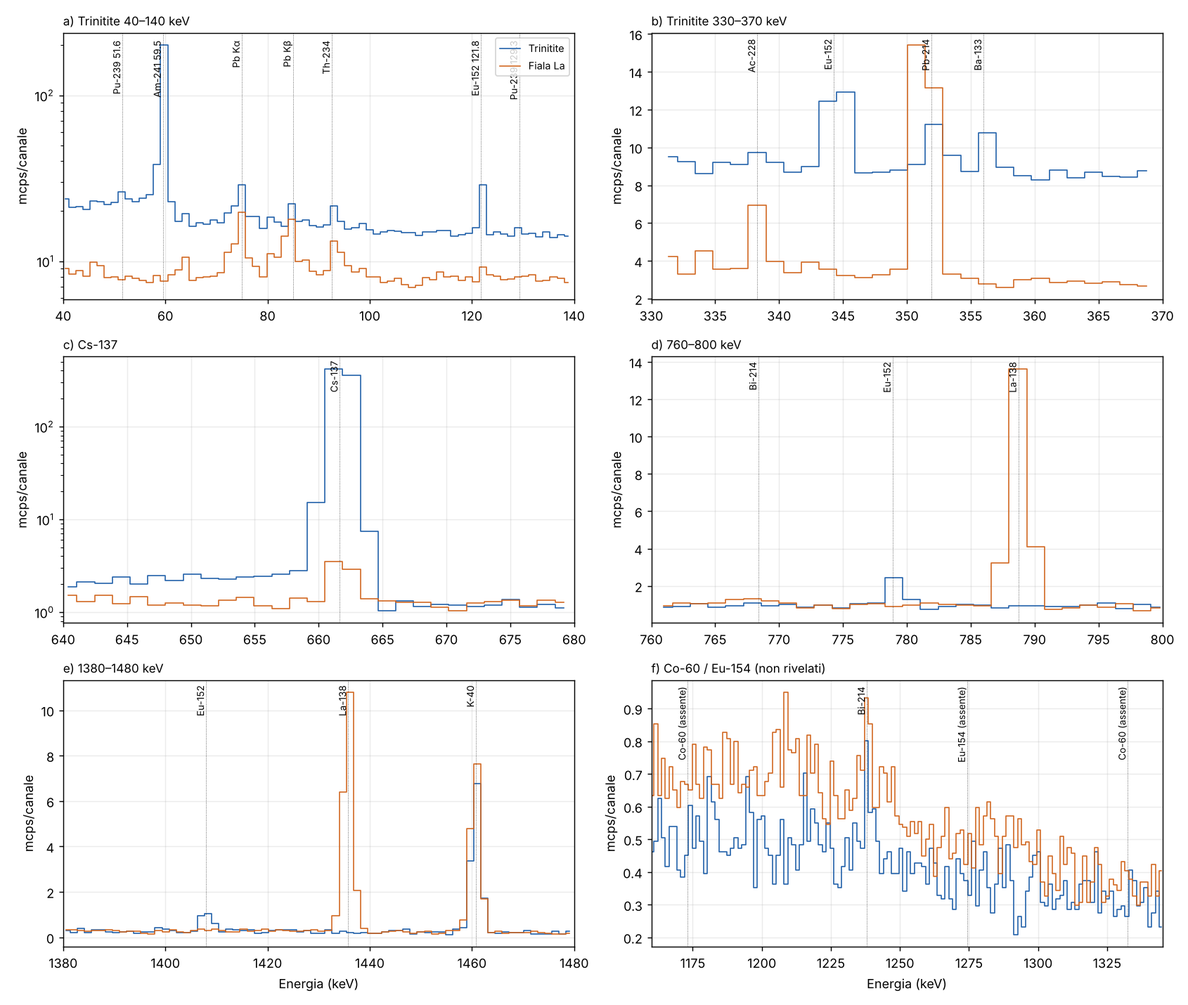
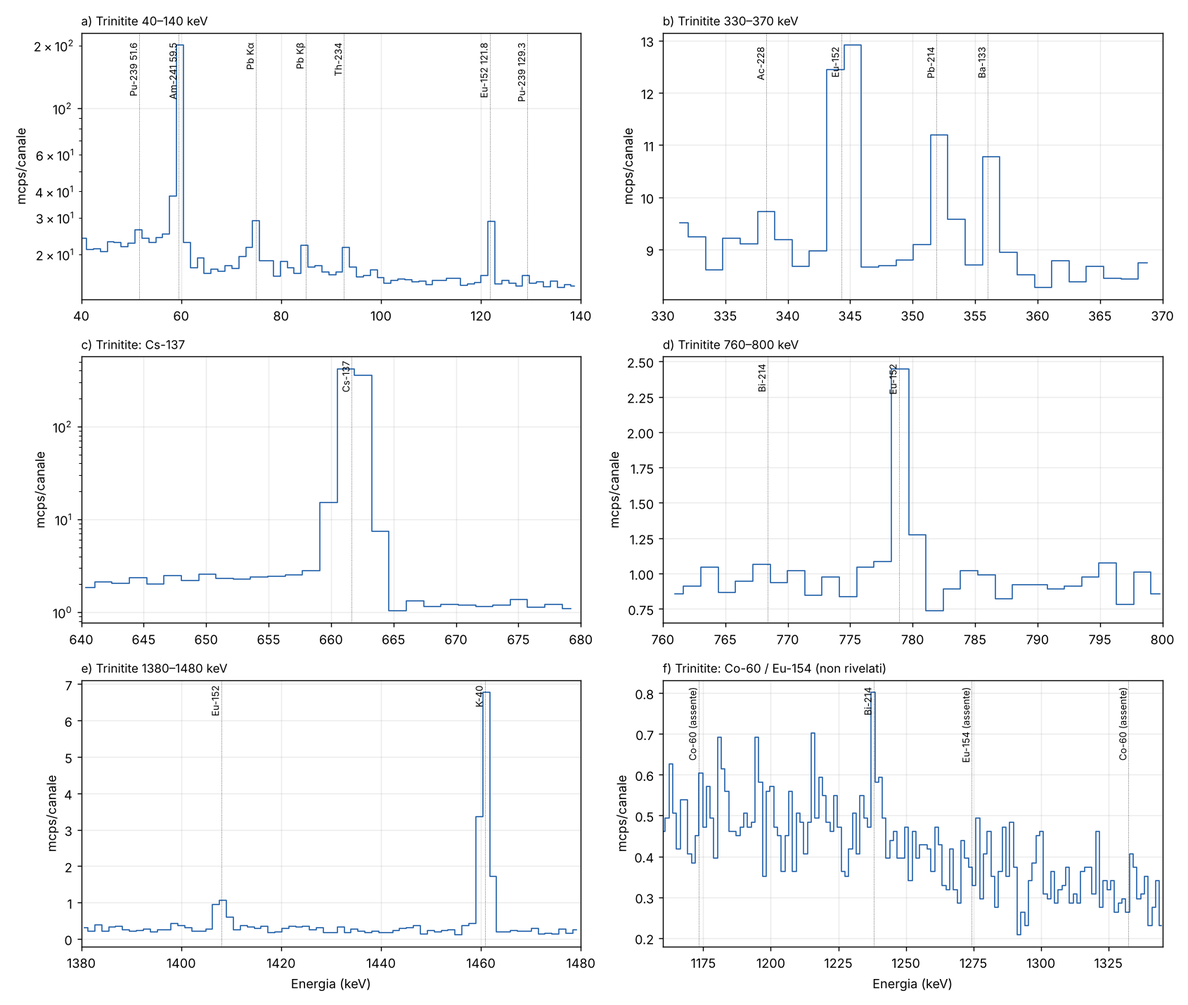
Analisi HPGe: trinitite e fiala di La trattate in modo indipendente
Rimossi confronti e sottrazioni incrociate fra i due spettri: correzione 228Ac
964.77 keV dalla linea 968.97 keV dello stesso spettro, nessuna sottrazione di
137Cs, figure separate per campione, relazione divisa in due parti.

Claude-Session: https://claude.ai/code/session_01UsiFx1uonXxZkccudTr8fm

diff --git a/analisi_HPGe/script/figs.py b/analisi_HPGe/script/figs.py
@@ -10,33 +10,31 @@ def ann(ax,items,c,ymax):
         ax.axvline(E,color=c,lw=.5,ls=':',alpha=.7)
         ax.text(E,ymax,t,rotation=90,va='top',ha='right',fontsize=7.5,color=c)
 # Fig1 overview
-fig,ax=plt.subplots(2,1,figsize=(13,8.5),sharex=True)
-for a,c,lt,col,name,items in [(ax[0],cT,lT,C1,'Trinitite (LT = %.0f s)'%lT,[(59.54,'Am-241'),(121.78,'Eu-152'),(344.28,'Eu-152'),(661.66,'Cs-137'),(778.9,'Eu-152'),(964.1,'Eu-152'),(1408.0,'Eu-152'),(1460.8,'K-40 (fondo)'),(2614.5,'Tl-208 (fondo)'),(1764.5,'Bi-214 (fondo)'),(511,'annich.')]),
-                              (ax[1],cL,lL,C2,'Fiala di La (LT = %.0f s)'%lL,[(235.96,'Th-227'),(269.5,'Ra-223/Rn-219'),(351.06,'Bi-211'),(401.8,'Rn-219'),(788.74,'La-138'),(831.96,'Pb-211'),(1435.8,'La-138'),(1460.8,'K-40 (fondo)'),(2614.5,'Tl-208 (fondo)'),(84,'raggi X'),(154.2,'Ra-223')])]:
+for a,c,lt,col,name,items in [(None,cT,lT,C1,'Trinitite (LT = %.0f s)'%lT,[(59.54,'Am-241'),(121.78,'Eu-152'),(344.28,'Eu-152'),(661.66,'Cs-137'),(778.9,'Eu-152'),(964.1,'Eu-152'),(1408.0,'Eu-152'),(1460.8,'K-40 (fondo)'),(2614.5,'Tl-208 (fondo)'),(1764.5,'Bi-214 (fondo)'),(511,'annich.')]),
+                              (None,cL,lL,C2,'Fiala di La (LT = %.0f s)'%lL,[(235.96,'Th-227'),(269.5,'Ra-223/Rn-219'),(351.06,'Bi-211'),(401.8,'Rn-219'),(788.74,'La-138'),(831.96,'Pb-211'),(1435.8,'La-138'),(1460.8,'K-40 (fondo)'),(2614.5,'Tl-208 (fondo)'),(84,'raggi X'),(154.2,'Ra-223')])]:
+    fig,a=plt.subplots(figsize=(13,4.6))
     a.step(e,c/lt,where='mid',color=col,lw=.7); a.set_yscale('log'); a.set_ylim(5e-6,1); a.set_title(name,loc='left'); a.set_ylabel('conteggi/s/canale'); a.grid(alpha=.25)
-    ann(a,items,'k',0.9)
-ax[1].set_xlabel('Energia (keV)'); ax[1].set_xlim(15,2800)
-plt.tight_layout(); plt.savefig(os.path.join(os.path.dirname(os.path.abspath(__file__)),'..','figure','fig1_spettri.png'),dpi=130); plt.close()
+    ann(a,items,'k',0.9); a.set_xlabel('Energia (keV)'); a.set_xlim(15,2800)
+    plt.tight_layout(); plt.savefig(os.path.join(os.path.dirname(os.path.abspath(__file__)),'..','figure','fig1_spettro_'+('trinitite' if c is cT else 'lantanio')+'.png'),dpi=130); plt.close()
 # zoom helper
-def zoom(ax,lo,hi,items,log=False,title=''):
+def zoom(ax,lo,hi,items,log=False,title='',sample='TR'):
     m=(e>=lo)&(e<=hi)
-    ax.step(e[m],cT[m]/lT*1e3,where='mid',color=C1,lw=.9,label='Trinitite')
-    ax.step(e[m],cL[m]/lL*1e3,where='mid',color=C2,lw=.9,label='Fiala La')
+    c_,l_,col=(cT,lT,C1) if sample=='TR' else (cL,lL,C2)
+    ax.step(e[m],c_[m]/l_*1e3,where='mid',color=col,lw=.9)
     if log: ax.set_yscale('log')
     ymax=ax.get_ylim()[1]; ann(ax,items,'k',ymax*0.98 if not log else ymax*0.9)
     ax.set_xlim(lo,hi); ax.set_title(title,loc='left',fontsize=9.5); ax.set_ylabel('mcps/canale'); ax.grid(alpha=.25)
 fig,ax=plt.subplots(3,2,figsize=(13,11))
 zoom(ax[0,0],40,140,[(51.62,'Pu-239 51.6'),(59.54,'Am-241 59.5'),(74.97,'Pb Kα'),(84.94,'Pb Kβ'),(92.6,'Th-234'),(121.78,'Eu-152 121.8'),(129.3,'Pu-239 129.3')],log=True,title='a) Trinitite 40–140 keV')
 zoom(ax[0,1],330,370,[(338.3,'Ac-228'),(344.28,'Eu-152'),(351.93,'Pb-214'),(356.01,'Ba-133')],title='b) Trinitite 330–370 keV')
-zoom(ax[1,0],640,680,[(661.66,'Cs-137')],log=True,title='c) Cs-137')
-zoom(ax[1,1],760,800,[(768.4,'Bi-214'),(778.9,'Eu-152'),(788.74,'La-138')],title='d) 760–800 keV')
-zoom(ax[2,0],1380,1480,[(1408.01,'Eu-152'),(1435.8,'La-138'),(1460.82,'K-40')],title='e) 1380–1480 keV')
-zoom(ax[2,1],1160,1345,[(1173.2,'Co-60 (assente)'),(1238.1,'Bi-214'),(1274.4,'Eu-154 (assente)'),(1332.5,'Co-60 (assente)')],title='f) Co-60 / Eu-154 (non rivelati)')
+zoom(ax[1,0],640,680,[(661.66,'Cs-137')],log=True,title='c) Trinitite: Cs-137')
+zoom(ax[1,1],760,800,[(768.4,'Bi-214'),(778.9,'Eu-152')],title='d) Trinitite 760–800 keV')
+zoom(ax[2,0],1380,1480,[(1408.01,'Eu-152'),(1460.82,'K-40')],title='e) Trinitite 1380–1480 keV')
+zoom(ax[2,1],1160,1345,[(1173.2,'Co-60 (assente)'),(1238.1,'Bi-214'),(1274.4,'Eu-154 (assente)'),(1332.5,'Co-60 (assente)')],title='f) Trinitite: Co-60 / Eu-154 (non rivelati)')
 for a in ax[2]: a.set_xlabel('Energia (keV)')
-ax[0,0].legend(loc='upper right',fontsize=8)
 plt.tight_layout(); plt.savefig(os.path.join(os.path.dirname(os.path.abspath(__file__)),'..','figure','fig2_zoom_trinitite.png'),dpi=130); plt.close()
 fig,ax=plt.subplots(2,1,figsize=(13,8))
-zoom(ax[0],140,460,[(144.2,'Ra-223'),(154.2,'Ra-223'),(185.7,'U-235/Ra-226'),(210.6,'Th-227'),(235.96,'Th-227'),(256.23,'Th-227'),(269.46,'Ra-223'),(271.23,'Rn-219'),(286.1,'Th-227'),(300,'Th-227'),(323.87,'Ra-223'),(329.85,'Th-227'),(338.28,'Ra-223'),(351.06,'Bi-211'),(401.81,'Rn-219'),(404.85,'Pb-211'),(427.09,'Pb-211'),(445.03,'Ra-223')],title='a) Fiala La 140–460 keV: catena del 227Ac')
-zoom(ax[1],760,860,[(768.4,'Bi-214'),(788.74,'La-138'),(831.96,'Pb-211')],title='b) Fiala La 760–860 keV')
-ax[1].set_xlabel('Energia (keV)'); ax[0].legend(fontsize=8,loc='center right')
+zoom(ax[0],140,460,[(144.2,'Ra-223'),(154.2,'Ra-223'),(185.7,'U-235/Ra-226'),(210.6,'Th-227'),(235.96,'Th-227'),(256.23,'Th-227'),(269.46,'Ra-223'),(271.23,'Rn-219'),(286.1,'Th-227'),(300,'Th-227'),(323.87,'Ra-223'),(329.85,'Th-227'),(338.28,'Ra-223'),(351.06,'Bi-211'),(401.81,'Rn-219'),(404.85,'Pb-211'),(427.09,'Pb-211'),(445.03,'Ra-223')],title='a) Fiala La 140–460 keV: catena del 227Ac',sample='La')
+zoom(ax[1],760,860,[(768.4,'Bi-214'),(788.74,'La-138'),(831.96,'Pb-211')],title='b) Fiala La 760–860 keV',sample='La')
+ax[1].set_xlabel('Energia (keV)')
 plt.tight_layout(); plt.savefig(os.path.join(os.path.dirname(os.path.abspath(__file__)),'..','figure','fig3_zoom_lantanio.png'),dpi=130); plt.close()

diff --git a/analisi_HPGe/script/quant.py b/analisi_HPGe/script/quant.py
@@ -16,7 +16,8 @@ eu=[(121.7817,28.53),(244.6974,7.55),(344.2785,26.59),(778.9045,12.93),(964.072,
 X=[];Y=[];DY=[]
 for e,I in eu:
     r,d=get('TR',e)
-    if abs(e-964.072)<0.1: r-=0.389; d=np.hypot(d,0.165)   # Ac-228 964.77 background (from La run)
+    if abs(e-964.072)<0.1:  # Ac-228 964.77 (unresolved) estimated from Ac-228 968.97 in the SAME spectrum: I(964.77)/I(968.97)=4.99/15.8
+        a,da=get('TR',968.971); r-=a*4.99/15.8; d=np.hypot(d,da*4.99/15.8)
     X.append(np.log(e));Y.append(np.log(r/I));DY.append(d/r)
     print(f"  {e:8.2f}  r={r:6.3f}±{d:5.3f} mcps  r/I={r/I:.4f}")
 X,Y,DY=map(np.array,(X,Y,DY))
@@ -28,7 +29,7 @@ for e,I in eu: print(f"   resid {e:7.1f}: {np.exp(np.log(get('TR',e)[0]/I)-np.lo
 # activity relative to Eu-152 (A_x/A_Eu152): A ∝ r/(I*eps); Eu-152 normalisation: eps curve is r/I for Eu itself => A_Eu = 1 in these units
 def ratio(E,I,r,dr):
     ef,def_=eps(E); A=r/I/ef; return A, A*np.hypot(dr/r,def_)
-cs_r,cs_d=get('TR',661.657); cs_r-=4.013; cs_d=np.hypot(cs_d,0.254)  # subtract Cs-137 seen in La run (lab bkg)
+cs_r,cs_d=get('TR',661.657)
 A,dA=ratio(661.657,85.10,cs_r,cs_d); print(f"  A(Cs-137)/A(Eu-152) = {A:.1f} ± {dA:.1f}  (at measurement date)")
 f_cs=2**(-81.27/30.08); f_eu=2**(-81.27/13.517); f_ba=2**(-81.27/10.551); f_154=2**(-81.27/8.601)
 print(f"  decay factors since 16-Jul-1945: Cs137 {f_cs:.4f} Eu152 {f_eu:.4f} Ba133 {f_ba:.5f} Eu154 {f_154:.5f} Co60 {2**(-81.27/5.2714):.2e} Eu155 {2**(-81.27/4.753):.1e}")
@@ -56,7 +57,6 @@ for E,I,n in chain:
     if n=='Bi-211':
         # Bi-211 351.06 and Pb-214 351.93 unresolved: take total and subtract Pb-214 351.9 estimated from Pb-214 295.2 (ratio from TR run)
         tot=get('La',351.06)[0]+get('La',351.932)[0]; dt=np.hypot(get('La',351.06)[1],get('La',351.932)[1])
-        k=get('TR',351.932)[0]/get('TR',295.224)[0]
         pb=get('La',295.224)[0]*1.70  # Igamma ratio 35.6/18.4 x eff ratio ~0.88
         r=tot-pb; d=np.hypot(dt,0.3*pb)
     pts.append((E,I,n,r,d)); print(f"  {n:7s} {E:7.2f} r={r:6.2f}±{d:4.2f}  r/I={r/I:.3f}±{d/I:.3f}")

diff --git a/analisi_HPGe/RELAZIONE.md b/analisi_HPGe/RELAZIONE.md
@@ -1,70 +1,78 @@
 # Analisi di spettri γ HPGe: trinitite e fiala di lantanio
 
-**Spettri analizzati** (GammaVision 6.08, MCA Easy-MCA-2k SN 15043603, 2048 canali, ~1,385 keV/canale, intervallo 0–2840 keV)
+I due campioni sono stati misurati in momenti diversi e sono **analizzati in modo indipendente**. Ciascuno spettro è valutato solo con informazioni interne a sé stesso, senza confronti né sottrazioni incrociate.
 
-| File | Campione | Inizio misura | Live time | Real time | Tempo morto |
-|---|---|---|---|---|---|
-| `Sabbia_vetrificata_21 ottobre 2026.Spe` | trinitite ("sabbia vetrificata") | 21/10/2026 16:47:45 | 91 070 s (25,3 h) | 91 083 s | ≈0,01 % |
-| `Lantan_28 ottobre 2026.Spe` | fiala di lantanio | 28/10/2026 11:04:28 | 113 768 s (31,6 h) | 113 777 s | ≈0,01 % |
+**Strumentazione comune** (dai file): GammaVision 6.08, MCA Easy-MCA-2k SN 15043603, 2048 canali, ~1,385 keV/canale, intervallo 0–2840 keV.
 
-Per entrambe le misure **non sono disponibili** una calibrazione in efficienza, uno spettro di fondo dedicato, la massa dei campioni o la geometria di misura. Di conseguenza **non riporto attività assolute (Bq)**. Riporto invece tre cose: (i) l'identificazione dei nuclidi con i relativi tassi netti di conteggio, (ii) i rapporti di attività ottenuti con una *calibrazione in efficienza relativa interna* al campione, (iii) i limiti di rivelabilità per i nuclidi attesi ma non osservati.
+Per nessuna delle due misure sono disponibili una calibrazione in efficienza, uno spettro di fondo, la massa del campione o la geometria di misura. Di conseguenza **non riporto attività assolute (Bq)**. Riporto invece:
+- i nuclidi identificati con i tassi netti di conteggio;
+- i rapporti di attività ottenuti con una *calibrazione in efficienza relativa interna* al campione;
+- i limiti di rivelabilità per i nuclidi attesi ma non osservati.
 
----
+## 0. Metodo (comune alle due analisi)
 
-## 1. Metodo
-
-1. **Calibrazione in energia.** I file contengono la calibrazione di GammaVision (E = −0,050 + 1,38516·ch + 7,3·10⁻⁷·ch²). Usando picchi di riferimento ben noti (²⁴¹Am 59,54; ¹³⁷Cs 661,66; ⁴⁰K 1460,82; ²⁰⁸Tl 2614,51; ²¹¹Bi 351,06; ¹³⁸La 788,74 e 1435,80 keV) l'ho rifittata con un polinomio quadratico: E = 0,193 + 1,38546·ch + 5,34·10⁻⁷·ch² keV. I residui sono ≤ 0,3 keV, cioè ≤ 0,2 canali.
-2. **Risoluzione.** Dai picchi isolati ottengo FWHM² = 0,925 + 2,14·10⁻³·E (keV²), cioè 1,5 keV a 662 keV e circa 2,0 keV a 1332 keV, valori tipici di un HPGe coassiale. Con 1,385 keV/canale ogni picco cade però in **solo 1–2 canali** (forte sotto-campionamento). Questo limita la separazione dei doppietti più vicini di circa 1,5 keV (es. ²¹¹Bi 351,06 / ²¹⁴Pb 351,93).
-3. **Fit dei picchi.** Ho fittato gaussiane integrate sul canale più un fondo lineare locale, con minimi quadrati pesati iterati (approssimazione della verosimiglianza di Poisson). I multipletti sono fittati simultaneamente. Le energie sono fissate ai valori di libreria, con uno spostamento comune ammesso di ±0,8 keV e una larghezza scalabile tra 0,8 e 1,4 volte la FWHM del modello. Per i nuclidi di ciascun campione ho usato una libreria dedicata, a cui ho aggiunto in entrambi i casi le linee del fondo naturale (serie U/Th, ⁴⁰K) e i raggi X del Pb.
-4. **Decisione e limiti.** Ho usato i criteri di Currie: livello critico L_C = 2,33·√B e limite di rivelazione L_D = 2,71 + 4,65·√B, con B il fondo sotto ±3σ del picco. Considero un picco "rivelato" se l'area netta è maggiore di L_C e di 3σ.
-5. **Ricerca di picchi non previsti.** Ho fatto una scansione canale per canale (gaussiana più fondo lineare su una finestra di ±6 canali) per cercare eccessi > 4σ non assegnati. Risultati in `log_picchi_non_identificati.txt`: nella trinitite compaiono solo 93 keV (²³⁴Th 92,4/92,8 keV e raggi X, presenti anche nell'altro spettro) e 474 keV (spalla Compton del ¹³⁷Cs a 477 keV). Nella fiala di La compare solo 661,7 keV (vedi §3.4).
-6. **Dati nucleari.** Energie e intensità γ sono i valori raccomandati ENSDF/NNDC e DDEP/LNHB, riportati in `script/lib.py`.
-7. **Riproducibilità.** Tutti i calcoli sono in `script/` (`cal2.py` → `run2.py` → `quant.py`, `scan.py`, `tabella.py`, `figs.py`). Le tabelle complete dei picchi sono in `picchi_trinitite.csv` e `picchi_fiala_lantanio.csv`.
-
-![Spettri](figure/fig1_spettri.png)
+1. **Calibrazione in energia.** I file contengono la calibrazione di GammaVision (E = −0,050 + 1,38516·ch + 7,3·10⁻⁷·ch²). L'ho verificata e rifittata con picchi di riferimento noti, ottenendo E = 0,193 + 1,38546·ch + 5,34·10⁻⁷·ch² keV, con residui ≤ 0,3 keV (≤ 0,2 canali).
+2. **Risoluzione.** FWHM² = 0,925 + 2,14·10⁻³·E (keV²): circa 1,5 keV a 662 keV e circa 2,0 keV a 1332 keV. Con 1,385 keV/canale ogni picco occupa solo **1–2 canali**. I doppietti più vicini di circa 1,5 keV non si separano.
+3. **Fit dei picchi.** Gaussiane integrate sul canale più un fondo lineare locale, con minimi quadrati pesati iterati (approssimazione della verosimiglianza di Poisson). I multipletti sono fittati simultaneamente. Le energie sono fissate ai valori di libreria, con uno spostamento comune ammesso di ±0,8 keV e una larghezza scalabile tra 0,8 e 1,4 volte la FWHM. Per ciascun campione ho usato una libreria dedicata, completata dalle linee del fondo naturale (U/Th, ⁴⁰K) e dai raggi X del Pb.
+4. **Decisione.** Criteri di Currie: L_C = 2,33·√B e L_D = 2,71 + 4,65·√B. Un picco è "rivelato" se l'area netta è maggiore di L_C e di 3σ.
+5. **Picchi non previsti.** Scansione canale per canale per eccessi > 4σ non assegnati (`log_picchi_non_identificati.txt`).
+6. **Dati nucleari.** ENSDF/NNDC e DDEP/LNHB (`script/lib.py`).
+7. **Codice.** `script/` (`cal2.py` → `run2.py` → `quant.py`, `scan.py`, `tabella.py`, `figs.py`). Tabelle complete in `picchi_trinitite.csv` e `picchi_fiala_lantanio.csv`.
 
 ---
 
-## 2. Trinitite
+# PARTE A — Trinitite
 
-### 2.1 Nuclidi identificati
+Misura del 21/10/2026, ore 16:47:45. Live time 91 070 s (25,3 h); tempo morto ≈ 0,01 %.
+
+![Spettro trinitite](figure/fig1_spettro_trinitite.png)
+
+## A.1 Nuclidi identificati
 
 | Nuclide | T½ | Linea (keV) [Iγ %] | Tasso netto (mcps) | Significatività | Origine |
 |---|---|---|---|---|---|
 | **¹³⁷Cs** | 30,08 a | 661,66 [85,1] | 789,1 ± 3,0 | > 250σ | prodotto di fissione |
 | **²⁴¹Am** | 432,6 a | 59,54 [35,9] | 197,9 ± 1,6 | > 100σ | decadimento del ²⁴¹Pu del combustibile |
-| **¹⁵²Eu** | 13,52 a | 121,78 [28,5] | 15,5 ± 0,6 | 25σ | attivazione neutronica (¹⁵¹Eu(n,γ)) del suolo |
+| **¹⁵²Eu** | 13,52 a | 121,78 [28,5] | 15,5 ± 0,6 | 25σ | attivazione neutronica ¹⁵¹Eu(n,γ) |
 | | | 244,70 [7,6] | 3,0 ± 0,5 | 6σ | |
 | | | 344,28 [26,6] | 6,9 ± 0,6 | 12σ | |
 | | | 778,90 [12,9] | 2,05 ± 0,21 | 10σ | |
-| | | 964,08 [14,5] | 1,69 ± 0,27* | 6σ | (*sottratto ²²⁸Ac 964,8 di fondo) |
+| | | 964,08 [14,5] | 1,74 ± 0,22* | 8σ | |
 | | | 1085,84 [10,1] | 0,99 ± 0,16 | 6σ | |
 | | | 1408,01 [20,9] | 1,68 ± 0,18 | 9σ | |
 | **¹³³Ba** | 10,55 a | 356,01 [62,1] | 2,08 ± 0,42 | 5σ | attivazione ¹³²Ba(n,γ) |
-| | | 302,85 [18,3] | 0,82 ± 0,45 | <2σ (compatibile) | |
+| | | 302,85 [18,3] | 0,82 ± 0,45 | < 2σ (compatibile) | |
 | **²³⁹Pu** | 24 110 a | 51,62 [0,0272] | 3,6 ± 0,7 | 5,4σ | combustibile non fissionato |
 | | | 129,30 [0,0063] | 1,7 ± 0,5 | 3,1σ | |
 
-Note sull'identificazione:
-- Le linee di ¹⁵²Eu a 411,1 e 1112,1 keV non entrano nella quantificazione. La prima ha un'interferenza non risolta, la seconda è nel doppietto con ²¹⁴Bi 1120,3 keV.
-- Per il **²³⁹Pu** le due linee più intense, 51,6 e 129,3 keV, sono presenti nella trinitite e **assenti** nello spettro della fiala di La misurato con lo stesso rivelatore. Il rapporto fra le loro intensità è fisicamente coerente: il 129,3 keV atteso, dato il 51,6 keV osservato, è 0,8–1,7 mcps; quello misurato è 1,7 ± 0,5 mcps. Le linee a 375,0 e 413,7 keV (Iγ ≈ 0,0015 %) sono sotto il limite di rivelabilità, come atteso. In letteratura il ²³⁹Pu nella trinitite è osservato in γ ma è "difficile da quantificare per la debolezza del segnale e le interferenze" [3]. Considero quindi l'identificazione **solida** e la quantificazione **indicativa**.
-- Per il **¹³³Ba** il 356 keV è a 4 keV dal ²¹⁴Pb 351,9 keV e il fit è multiplo. Le linee secondarie (81, 303, 384 keV) sono compatibili ma singolarmente non significative. L'identificazione è **probabile**, con significatività moderata.
+\* La linea a 964,08 keV non è risolta dal ²²⁸Ac a 964,77 keV. Il contributo del ²²⁸Ac è stimato e sottratto usando la linea a 968,97 keV dello stesso spettro, con il rapporto di intensità 4,99/15,8.
+
+Note:
+- Le linee di ¹⁵²Eu a 411,1 keV (interferenza non risolta) e a 1112,1 keV (doppietto con ²¹⁴Bi 1120,3 keV) sono escluse dalla quantificazione.
+- **²³⁹Pu.**
+  - A 51,6 keV non c'è un'altra linea attesa tra i nuclidi presenti. I picchi di fuga del Ge del ²⁴¹Am cadono a 49,7 e 48,6 keV e sono distinti.
+  - Il rapporto fra le due linee è fisicamente coerente: il 129,3 keV atteso, dato il 51,6 keV osservato, è 0,8–1,7 mcps; quello misurato è 1,7 ± 0,5 mcps.
+  - Le linee a 375,0 e 413,7 keV (Iγ ≈ 0,0015 %) sono sotto il limite di rivelabilità, come atteso.
+  - In letteratura il ²³⁹Pu nella trinitite è osservabile in γ ma "difficile da quantificare" per la debolezza del segnale [3].
+  - Giudizio: identificazione **solida**, quantificazione **indicativa**.
+- **¹³³Ba.** Il 356 keV è fittato insieme al ²¹⁴Pb a 351,9 keV. Le linee secondarie (81, 303, 384 keV) sono compatibili ma non significative. Identificazione **probabile**, con significatività moderata.
+- **Eccessi non previsti dalla scansione.** Solo 93 keV, cioè ²³⁴Th 92,4/92,8 keV e raggi X K, e 474 keV, cioè la spalla Compton del ¹³⁷Cs a 477 keV.
 
 ![Zoom trinitite](figure/fig2_zoom_trinitite.png)
 
-### 2.2 Nuclidi attesi ma non rivelati (coerente con la letteratura)
+## A.2 Nuclidi attesi ma non rivelati
 
 | Nuclide | T½ | Fattore di decadimento dal 16/07/1945 | Esito |
 |---|---|---|---|
-| ⁶⁰Co | 5,27 a | 2,3·10⁻⁵ | non rivelato: 1332,5 keV < 0,49 mcps (L_D); A(⁶⁰Co)/A(¹⁵²Eu) < 0,06 |
-| ¹⁵⁴Eu | 8,60 a | 1,4·10⁻³ | non rivelato: 1274,4 keV < 0,55 mcps; A(¹⁵⁴Eu)/A(¹⁵²Eu) < 0,17 |
-| ¹⁵⁵Eu | 4,75 a | 7·10⁻⁶ | non rivelato (86,5 / 105,3 keV) |
+| ⁶⁰Co | 5,27 a | 2,3·10⁻⁵ | 1332,5 keV < 0,49 mcps (L_D); A/A(¹⁵²Eu) < 0,06 |
+| ¹⁵⁴Eu | 8,60 a | 1,4·10⁻³ | 1274,4 keV < 0,55 mcps; A/A(¹⁵²Eu) < 0,17 |
+| ¹⁵⁵Eu | 4,75 a | 7·10⁻⁶ | 86,5 / 105,3 keV non rivelati |
 
-Rispetto al ¹⁵²Eu (fattore 0,0155), dal 1945 il ¹⁵⁴Eu ha perso un ulteriore fattore 0,09 e il ⁶⁰Co un fattore 1,5·10⁻³. Dopo 81 anni la loro assenza è quindi attesa e non dice nulla contro l'origine del campione. Questi nuclidi sono riportati come presenti nei lavori di 20 o più anni fa [1, 2, 4].
+Rispetto al ¹⁵²Eu (fattore 0,0155), dal 1945 il ¹⁵⁴Eu ha perso un ulteriore fattore 0,09 e il ⁶⁰Co un fattore 1,5·10⁻³. Dopo 81 anni la loro assenza è attesa. Questi nuclidi sono invece riportati nei lavori di 20 o più anni fa [1, 2, 4].
 
-### 2.3 Rapporti di attività (calibrazione in efficienza relativa interna con ¹⁵²Eu)
+## A.3 Rapporti di attività (efficienza relativa dal ¹⁵²Eu del campione)
 
-La curva di efficienza relativa è ottenuta dalle 7 linee pulite del ¹⁵²Eu dello stesso campione: ln ε = polinomio di 2° grado in ln E, χ²_rid = 0,6. In questo modo geometria e autoassorbimento sono inclusi automaticamente nella curva.
+La curva di efficienza relativa è costruita sulle 7 linee pulite del ¹⁵²Eu: ln ε è un polinomio di 2° grado in ln E, con χ²_rid = 0,6. Geometria e autoassorbimento del frammento sono quindi inclusi nella curva.
 
 | Rapporto | Al 21/10/2026 | Riportato al 16/07/1945 (Δt = 81,27 a) |
 |---|---|---|
@@ -72,83 +80,98 @@ La curva di efficienza relativa è ottenuta dalle 7 linee pulite del ¹⁵²Eu d
 | A(¹³³Ba)/A(¹⁵²Eu) | 0,12 ± 0,03 | 0,40 ± 0,08 |
 | A(²³⁹Pu)/A(²⁴¹Am) | ≈ 24–34 (indicativo) | — |
 
-Incertezze: sono indicate solo quelle statistiche e di fit. Ci sono due effetti sistematici non quantificabili senza conoscere la geometria:
-- la **somma per coincidenza** delle linee in cascata del ¹⁵²Eu (in geometria ravvicinata causa perdite di qualche % fino a circa il 10–20 %; il ¹³⁷Cs non ne è affetto);
-- per il rapporto Pu/Am, il rapporto di efficienza ε(51,6)/ε(59,5), che ho assunto tra 0,7 e 1,0.
+Le incertezze sono solo statistiche e di fit. Restano fuori tre effetti sistematici:
+- la **somma per coincidenza** delle linee in cascata del ¹⁵²Eu, non quantificabile senza la geometria: in geometria ravvicinata va da qualche % al 10–20 %, mentre il ¹³⁷Cs non ne è affetto;
+- per il rapporto Pu/Am, il rapporto di efficienza ε(51,6)/ε(59,5), assunto tra 0,7 e 1,0;
+- un eventuale contributo di ¹³⁷Cs del fondo ambientale, che senza uno spettro di fondo non è stato sottratto.
 
-Il ¹³⁷Cs è corretto per i 4,0 ± 0,3 mcps di ¹³⁷Cs di fondo di laboratorio visti nell'altra misura.
+## A.4 Interpretazione
 
-**Interpretazione alla luce della letteratura.**
-- La firma (¹³⁷Cs + ¹⁵²Eu + ¹³³Ba + ²⁴¹Am + ²³⁹Pu, senza linee di altri prodotti di fissione a vita breve) è quella tipica della trinitite descritta in letteratura [1–5]: un prodotto di fissione (¹³⁷Cs), prodotti di attivazione neutronica dei materiali del suolo e del dispositivo (¹⁵²Eu, ¹³³Ba), il combustibile Pu e il suo discendente ²⁴¹Am.
-- Il ²⁴¹Am deriva in gran parte dal decadimento del ²⁴¹Pu presente nel combustibile e prodotto per cattura neutronica durante l'esplosione [3]. In 49 campioni di trinitite il ²⁴¹Am riportato alla data della detonazione varia fra 1 e 42 Bq/g [5].
-- Il ¹³³Ba è attribuito principalmente all'attivazione del bario del Baratol, l'esplosivo convenzionale del dispositivo [3], con un possibile contributo del Ba delle sabbie arcosiche [5].
-- Il rapporto ¹³⁷Cs/¹⁵²Eu **non è una costante universale**. Nel suolo è circa 20 volte più basso che nella trinitite tipica, per la lisciviazione del Cs [3]. Inoltre tra i prodotti di attivazione del suolo (¹⁵²Eu, ¹⁵⁴Eu) e i radionuclidi del dispositivo non si osservano correlazioni [5]. Il valore di questo campione va quindi letto come una caratteristica del singolo frammento, che dipende tra l'altro dalla distanza dal ground zero [2], e non come un test di autenticità.
+- La firma (¹³⁷Cs, ¹⁵²Eu, ¹³³Ba, ²⁴¹Am, ²³⁹Pu, senza prodotti di fissione a vita breve) è quella della trinitite del test Trinity descritta in letteratura [1–5]. Comprende un prodotto di fissione, prodotti di attivazione neutronica del suolo e del dispositivo, e il combustibile Pu con il suo discendente ²⁴¹Am.
+- Il ²⁴¹Am deriva in gran parte dal decadimento del ²⁴¹Pu presente nel combustibile o prodotto per cattura neutronica durante la detonazione [3]. Su 49 campioni il ²⁴¹Am, riportato alla data della detonazione, varia fra 1 e 42 Bq/g [5].
+- Il ¹³³Ba è attribuito soprattutto all'attivazione del Ba del Baratol, l'esplosivo convenzionale del dispositivo [3], con un possibile contributo del Ba delle sabbie arcosiche [5].
+- Il rapporto ¹³⁷Cs/¹⁵²Eu varia molto da campione a campione. Tra prodotti di attivazione del suolo e radionuclidi del dispositivo non si osservano correlazioni [5], e il valore dipende tra l'altro dalla posizione rispetto al ground zero [2]. Il valore trovato caratterizza questo frammento e non va usato come test di autenticità.
 
-### 2.4 Radionuclidi naturali
+## A.5 Radionuclidi naturali
 
-Le linee di ⁴⁰K, ²¹⁴Pb/²¹⁴Bi e ²²⁸Ac/²¹²Pb/²⁰⁸Tl compaiono in entrambi gli spettri con tassi simili, quindi sono dominate dal **fondo ambientale**. Rispetto allo spettro della fiala di La, usato come approssimazione del fondo, nella trinitite si vedono eccessi a 185,7 keV (²³⁵U/²²⁶Ra, +2,7 ± 0,7 mcps) e a 238,6 keV (²¹²Pb, +3,2 ± 0,7 mcps). Questi eccessi indicano U e Th nel vetro, compatibili con la sua origine dalla sabbia arcosica. Il ⁴⁰K però risulta *più basso* nella trinitite (−2,6 ± 0,5 mcps): il fondo non era identico nelle due misure. Per questo **non quantifico** il contenuto naturale. Per farlo serve uno spettro di fondo dedicato.
+Lo spettro contiene le linee di ⁴⁰K (1460,8 keV), della serie dell'U (²¹⁴Pb, ²¹⁴Bi, 185,7 keV ²³⁵U/²²⁶Ra) e della serie del Th (²²⁸Ac, ²¹²Pb, ²⁰⁸Tl), più i raggi X del Pb dello schermo. Senza uno spettro di fondo dello stesso rivelatore non è possibile separare il contributo del frammento da quello ambientale. Per questo **non le quantifico**.
 
 ---
 
-## 3. Fiala di lantanio
+# PARTE B — Fiala di lantanio
 
-### 3.1 Contenuto: ¹³⁸La + catena dell'²²⁷Ac
+Misura del 28/10/2026, ore 11:04:28. Live time 113 768 s (31,6 h); tempo morto ≈ 0,01 %.
+
+![Spettro lantanio](figure/fig1_spettro_lantanio.png)
+
+## B.1 Contenuto: ¹³⁸La + catena dell'²²⁷Ac
 
 | Nuclide | T½ | Linee osservate (keV) | Tasso netto (mcps) |
 |---|---|---|---|
-| **¹³⁸La** (La naturale, 0,089 %) | 1,03·10¹¹ a | 788,74 (β⁻ → ¹³⁸Ce) | 18,1 ± 0,4 |
+| **¹³⁸La** (0,089 % del La naturale) | 1,03·10¹¹ a | 788,74 (β⁻ → ¹³⁸Ce) | 18,1 ± 0,4 |
 | | | 1435,80 (CE → ¹³⁸Ba) | 19,2 ± 0,4 |
-| **²²⁷Th** (catena ²²⁷Ac) | 18,7 d | 235,96 / 256,23 / 329,85 / 210,6 / 286,1 / 304,5 / 334,4 | 22,3 / 12,8 / 3,4 / 2,9 / 1,8 / 1,6 / 1,3 |
-| **²²³Ra** | 11,4 d | 269,46 / 154,21 / 323,87 / 338,28 / 144,23 / 445,03 / 122,3 | 22,6 / 9,6 / 5,4 / 4,3 / 6,0 / 1,4 / 1,5 |
+| **²²⁷Th** | 18,7 d | 235,96 / 256,23 / 329,85 / 210,6 / 286,1 / 304,5 / 334,4 | 22,3 / 12,8 / 3,4 / 2,9 / 1,8 / 1,6 / 1,3 |
+| **²²³Ra** | 11,4 d | 269,46 / 154,21 / 144,23 / 323,87 / 338,28 / 445,03 / 122,3 | 22,6 / 9,6 / 6,0 / 5,4 / 4,3 / 1,4 / 1,5 |
 | **²¹⁹Rn** | 3,96 s | 271,23 / 401,81 | 20,0 / 8,8 |
 | **²¹¹Pb** | 36,1 min | 404,85 / 427,09 / 831,96 | 4,4 / 1,6 / 2,46 ± 0,21 |
-| **²¹¹Bi** | 2,14 min | 351,06 | ≈ 19 (corretto per ²¹⁴Pb 351,9) |
+| **²¹¹Bi** | 2,14 min | 351,06 | ≈ 19* |
 | raggi X K | — | ~81–94 keV (Rn/Ra) + Pb Kα/Kβ (schermo) | qualitativo |
 
-Tutte le linee hanno significatività > 5σ, tranne le più deboli (²¹¹Pb 766 keV, ²⁰⁷Tl 897,8 keV), che sono solo compatibili. Nessuna linea della trinitite (²⁴¹Am, ¹⁵²Eu) è presente.
+\* Il ²¹¹Bi a 351,06 keV non è risolto dal ²¹⁴Pb a 351,93 keV. Il contributo del ²¹⁴Pb è stimato dalla linea a 295,2 keV dello stesso spettro.
 
-La presenza di ²²⁷Ac nel lantanio è ben documentata. Ac e La sono chimicamente quasi indistinguibili e l'²²⁷Ac (serie del ²³⁵U) segue il La nei minerali e nella purificazione. Il caso tipico è il fondo intrinseco degli scintillatori LaCl₃(Ce) e LaBr₃(Ce) [6–9].
+Le linee elencate hanno significatività > 5σ. Le più deboli (²¹¹Pb 766 keV, ²⁰⁷Tl 897,8 keV) sono solo compatibili.
+
+Che l'²²⁷Ac accompagni il lantanio è ben documentato. Ac e La sono chimicamente quasi indistinguibili, e l'²²⁷Ac (serie del ²³⁵U) segue il La nei minerali e nella purificazione. L'esempio classico è il fondo intrinseco degli scintillatori LaCl₃(Ce) e LaBr₃(Ce) [6–9].
 
 ![Zoom lantanio](figure/fig3_zoom_lantanio.png)
 
-### 3.2 Equilibrio della catena
+## B.2 Equilibrio della catena
 
-Con le linee della catena ho costruito una curva di efficienza relativa (ln ε lineare in ln E). Le linee del ²²⁷Th e quelle del ²²³Ra stanno sulla stessa curva entro circa il 10–20 % (residui per linea in `log_quantificazione.txt`), senza uno scarto sistematico fra le due famiglie. Il ²¹⁹Rn (401,8 keV) è anch'esso in linea, quindi non si vede una perdita apprezzabile di Rn dalla fiala. Il dato è compatibile con l'**equilibrio secolare** ²²⁷Ac–²²⁷Th–²²³Ra–figli. Ne segue che il materiale è stato separato chimicamente da almeno alcuni mesi (circa 5–10 volte i 18,7 d del ²²⁷Th).
+Con le linee della catena ho costruito una curva di efficienza relativa (ln ε lineare in ln E). Le linee del ²²⁷Th e del ²²³Ra stanno sulla stessa curva entro il 10–20 %, senza uno scarto sistematico fra le due famiglie. Anche il ²¹⁹Rn (401,8 keV) è in linea, quindi non c'è una perdita apprezzabile di Rn dalla fiala. Il quadro è compatibile con l'**equilibrio secolare** ²²⁷Ac–²²⁷Th–²²³Ra–figli. Il materiale è quindi stato separato chimicamente da almeno alcuni mesi (circa 5–10 volte i 18,7 d del ²²⁷Th).
 
-### 3.3 Livello di contaminazione da ²²⁷Ac
+## B.3 Livello di contaminazione da ²²⁷Ac
 
-Assumo che il lantanio sia di composizione isotopica naturale. In quel caso il ¹³⁸La fa da **riferimento interno**: abbondanza 0,08881 %, T½ = 1,03·10¹¹ a, quindi un'attività specifica di **0,82 Bq per grammo di La**. Le efficienze a 789 keV (¹³⁸La) e a 832 keV (²¹¹Pb) differiscono solo di circa il 5 %, per cui il confronto diretto è quasi indipendente dalla geometria:
+Assumo che il lantanio abbia composizione isotopica naturale. Il ¹³⁸La fa allora da **riferimento interno**: abbondanza 0,08881 %, T½ = 1,03·10¹¹ a, cioè **0,82 Bq per grammo di La**. Le efficienze a 789 keV (¹³⁸La) e a 832 keV (²¹¹Pb) differiscono solo di circa il 5 %:
 
 - A(²²⁷Ac)/A(¹³⁸La) = **1,38 ± 0,12** (²¹¹Pb 832 keV contro ¹³⁸La 789 keV);
-- usando l'intera catena e la curva di efficienza relativa si ottiene 1,69 ± 0,19. La differenza dà un'idea dell'incertezza sistematica.
+- usando l'intera catena con la curva di efficienza relativa: 1,69 ± 0,19. La differenza fornisce una stima dell'incertezza sistematica.
 
 Quindi:
 - **²²⁷Ac ≈ 1,1–1,4 Bq per grammo di La**;
 - rapporto atomico **Ac/La ≈ (2,6–3,2)·10⁻¹³**.
 
-Per confronto, la letteratura riporta 1,3·10⁻¹³ atomi della catena ²²⁷Ac per atomo di La in uno dei primi cristalli di LaCl₃(Ce), e 5,8·10⁻¹⁵ in un LaBr₃(Ce) moderno [9]. Il lantanio della fiala ha quindi un livello di ²²⁷Ac **paragonabile a quello dei materiali non specificamente purificati dall'attinio**.
+In letteratura sono riportati 1,3·10⁻¹³ atomi della catena ²²⁷Ac per atomo di La in uno dei primi cristalli LaCl₃(Ce) e 5,8·10⁻¹⁵ in un LaBr₃(Ce) moderno [9]. Il lantanio della fiala ha quindi un livello di ²²⁷Ac tipico di un materiale non specificamente purificato dall'attinio.
 
-Verifica di coerenza: il rapporto osservato tra i tassi del ¹³⁸La, corretto per le intensità, ε(1436)/ε(789) = 0,56, è inferiore all'estrapolazione della curva della catena (0,73). La discrepanza si spiega con la curvatura della curva di efficienza al di sopra di 850 keV e con la perdita per somma del 1436 keV con i raggi X K del Ba emessi dopo la cattura elettronica. Per questo motivo per il rapporto Ac/La uso solo la linea a 789 keV.
+Verifica di coerenza: corretto per le intensità, il rapporto fra le due linee del ¹³⁸La dà ε(1436)/ε(789) = 0,56, meno dell'estrapolazione della curva della catena (0,73). La differenza si spiega con la curvatura della curva di efficienza sopra 850 keV e con la perdita per somma del 1436 keV con i raggi X K del Ba che seguono la cattura elettronica. Per il rapporto Ac/La uso quindi solo la linea a 789 keV.
 
-### 3.4 ¹³⁷Cs nello spettro della fiala
+## B.4 Altre linee
 
-A 661,7 keV c'è un picco di 4,0 ± 0,3 mcps. **Non** proviene da frammenti di trinitite rimasti sul rivelatore. In quel caso si vedrebbe anche il ²⁴¹Am a 59,5 keV, atteso intorno a 1 mcps (rapporto 59,5/662 della trinitite circa 0,25), mentre se ne misurano −0,6 ± 0,3. L'origine più probabile è il fondo di laboratorio, cioè sorgenti nelle vicinanze o il fallout nei materiali. Un contributo della fiala non si può escludere senza una misura di fondo.
+- **¹³⁷Cs** (661,7 keV): 4,0 ± 0,3 mcps (13σ). Non appartiene né al ¹³⁸La né alla catena dell'²²⁷Ac. Senza uno spettro di fondo non si può stabilire se provenga dalla fiala o dall'ambiente di misura.
+- **⁴⁰K, serie U e Th, raggi X del Pb**: presenti come in un normale fondo di laboratorio. Non sono quantificati, per lo stesso motivo.
 
 ---
 
-## 4. Conclusioni
+# Conclusioni
 
-1. **Trinitite**: contiene ¹³⁷Cs (dominante), ²⁴¹Am, ¹⁵²Eu, ¹³³Ba e ²³⁹Pu (identificato tramite le linee a 51,6 e 129,3 keV), più tracce di U/Th naturali. ⁶⁰Co, ¹⁵⁴Eu e ¹⁵⁵Eu non sono rivelabili, come atteso dopo 81 anni di decadimento. Lo spettro è pienamente compatibile con la trinitite del test Trinity (16/07/1945) descritta in letteratura. Rapporti principali, riportati al 1945: A(¹³⁷Cs)/A(¹⁵²Eu) = 5,7 ± 0,3 (stat.) e A(¹³³Ba)/A(¹⁵²Eu) = 0,40 ± 0,08.
-2. **Fiala di La**: contiene lantanio naturale (¹³⁸La, 788,7 e 1435,8 keV) contaminato da **²²⁷Ac in equilibrio con i figli** (²²⁷Th, ²²³Ra, ²¹⁹Rn, ²¹¹Pb, ²¹¹Bi). Il livello è A(²²⁷Ac)/A(¹³⁸La) ≈ 1,4–1,7, cioè circa 1,1–1,4 Bq di ²²⁷Ac per g di La, ovvero Ac/La ≈ 3·10⁻¹³ in atomi.
+**Trinitite.**
+- Contiene ¹³⁷Cs (dominante), ²⁴¹Am, ¹⁵²Eu, ¹³³Ba e ²³⁹Pu, quest'ultimo identificato dalle linee a 51,6 e 129,3 keV.
+- ⁶⁰Co, ¹⁵⁴Eu e ¹⁵⁵Eu non sono rivelabili, come atteso dopo 81 anni di decadimento.
+- Rapporti riportati al 1945: A(¹³⁷Cs)/A(¹⁵²Eu) = 5,7 ± 0,3 (stat.) e A(¹³³Ba)/A(¹⁵²Eu) = 0,40 ± 0,08.
+- Lo spettro è compatibile con la trinitite del test Trinity descritta in letteratura.
 
-## 5. Limiti e misure consigliate
+**Fiala di lantanio.**
+- Contiene lantanio naturale (¹³⁸La: 788,7 e 1435,8 keV) contaminato da **²²⁷Ac in equilibrio con i figli** (²²⁷Th, ²²³Ra, ²¹⁹Rn, ²¹¹Pb, ²¹¹Bi).
+- A(²²⁷Ac)/A(¹³⁸La) ≈ 1,4–1,7, cioè circa 1,1–1,4 Bq di ²²⁷Ac per g di La, ovvero Ac/La ≈ 3·10⁻¹³ in atomi.
+- Nello spettro c'è anche ¹³⁷Cs, di origine non determinabile.
 
-- **Fondo**: serve uno spettro a vuoto della stessa durata (≥ 1 giorno) per sottrarre correttamente ⁴⁰K, U/Th e il ¹³⁷Cs di laboratorio.
-- **Efficienza assoluta**: con una sorgente multi-γ certificata nella stessa geometria, oppure con calcolo Monte Carlo/LabSOCS, e con la massa dei campioni, i rapporti diventano attività in Bq/g. Se si conosce la **massa di La nella fiala**, il ¹³⁸La fornisce da solo una calibrazione assoluta dell'efficienza a 789 e 1436 keV per quella geometria.
-- **Guadagno/canali**: 2048 canali su 2,8 MeV sotto-campionano i picchi. Conviene acquisire con 8192 o 16384 canali.
-- **Pu**: per quantificare ²³⁹⁺²⁴⁰Pu in modo affidabile serve la spettrometria α dopo separazione radiochimica, come in [1, 4].
+# Limiti e misure consigliate
 
-## Bibliografia
+- **Fondo**: per ciascuna configurazione di misura serve uno spettro a vuoto della stessa durata (≥ 1 giorno). Permette di sottrarre ⁴⁰K, U/Th ed eventuale ¹³⁷Cs ambientale, e di quantificare i radionuclidi naturali della trinitite.
+- **Efficienza assoluta**: con una sorgente multi-γ certificata nella stessa geometria, oppure con calcolo Monte Carlo/LabSOCS, e con la massa del campione, i rapporti diventano Bq/g. Se si conosce la **massa di La nella fiala**, il ¹³⁸La fornisce da solo una calibrazione assoluta dell'efficienza a 789 e 1436 keV.
+- **Canali**: 2048 canali su 2,8 MeV sotto-campionano i picchi. Conviene acquisire con 8192 o 16384 canali.
+- **Pu**: per quantificare ²³⁹⁺²⁴⁰Pu in modo affidabile serve la spettrometria α dopo separazione radiochimica [1, 4].
+
+# Bibliografia
 
 1. P.P. Parekh, T.M. Semkow, M.A. Torres et al., *Radioactivity in Trinitite six decades later*, J. Environ. Radioact. 85 (2006) 103–120. [ADS](https://ui.adsabs.harvard.edu/abs/2006JEnvR..85..103P)
 2. F. Belloni, J. Himbert, O. Marzocchi, V. Romanello, *Investigating incorporation and distribution of radionuclides in trinitite*, J. Environ. Radioact. 102 (2011) 852–862. [JRC](https://publications.jrc.ec.europa.eu/repository/handle/JRC67348)
@@ -162,4 +185,4 @@ A 661,7 keV c'è un picco di 4,0 ± 0,3 mcps. **Non** proviene da frammenti di t
 10. Dati di decadimento del ¹³⁸La: ENSDF/NNDC ([adopted levels](https://www.nndc.bnl.gov/ensnds/138/La/adopted.pdf)); DDEP (Bé et al.), branching CE 65,2(6) % / β⁻ 34,8(6) %, citato in [TU Delft](https://repository.tudelft.nl/file/File_9efc9432-33af-4fb1-9710-144de91c8fcc).
 11. Energie e intensità γ: NNDC/ENSDF (NuDat) e DDEP/LNHB *Recommended Data*.
 
-*Nota sulle fonti*: dalla rete di questa sessione non è stato possibile scaricare i testi integrali di [1–5]. Le affermazioni attribuite a questi lavori si basano sugli abstract e sui record indicizzati. Per questo non riporto confronti numerici con le loro tabelle di attività.
+*Nota sulle fonti*: dalla rete di questa sessione non è stato possibile scaricare i testi integrali di [1–5]. Le affermazioni attribuite a questi lavori si basano sugli abstract e sui record indicizzati, per cui non riporto confronti numerici con le loro tabelle di attività.
